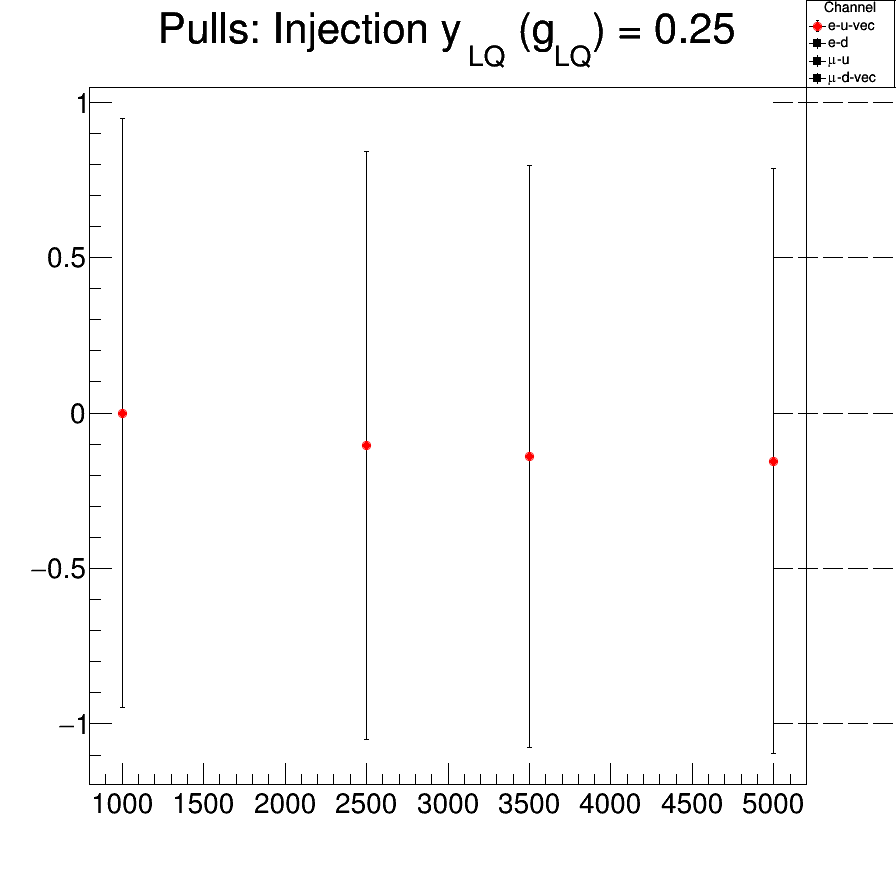
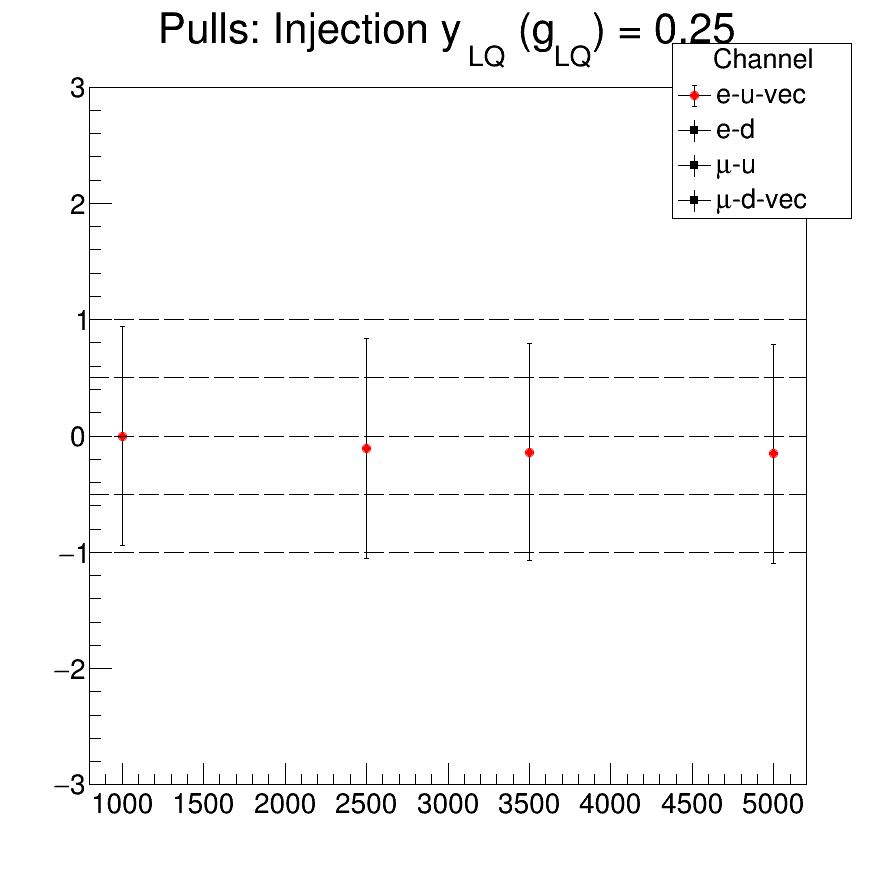
fixing legends and entries

diff --git a/analyze/combine/AFB_fits/scripts/LQ_do_bias_test.py b/analyze/combine/AFB_fits/scripts/LQ_do_bias_test.py
@@ -140,14 +140,14 @@ else:
     
     for options.yLQ in [0.0, 0.25, 0.5]:
         c4 = TCanvas("c4", "", 900, 900)
-        leg = TLegend(0.9,0.9,1.0,1.0)
+        leg = TLegend(0.75,0.75,0.95,0.95)
         leg.SetHeader("Channel","C")
 	mg = TMultiGraph()
-        l1 = TLine(5000,-1,7000,-1)
-        l2 = TLine(5000,-0.5,7000,-0.5)
-        l3 = TLine(5000,0,7000,0)
-        l4 = TLine(5000,0.5,7000,0.5)
-        l5 = TLine(5000,1,7000,1)
+        l1 = TLine(800,-1,5200,-1)
+        l2 = TLine(800,-0.5,5200,-0.5)
+        l3 = TLine(800,0,5200,0)
+        l4 = TLine(800,0.5,5200,0.5)
+        l5 = TLine(800,1,5200,1)
         l1.SetLineStyle(9)
         l2.SetLineStyle(9)
         l3.SetLineStyle(9)
@@ -294,7 +294,7 @@ else:
 	
 	mg.SetTitle("Pulls: Injection y_{LQ} (g_{LQ}) = %.2f"%options.yLQ)
     	mg.Draw("AP")
-	#mg.GetYaxis().SetRangeUser(-3.,3.)
+	mg.GetYaxis().SetRangeUser(-3.,3.)
 	leg.AddEntry('gr0','e-u-vec','lep')
 	leg.AddEntry('gr1','e-d','lep')
 	leg.AddEntry('gr2','#mu-u','lep')
